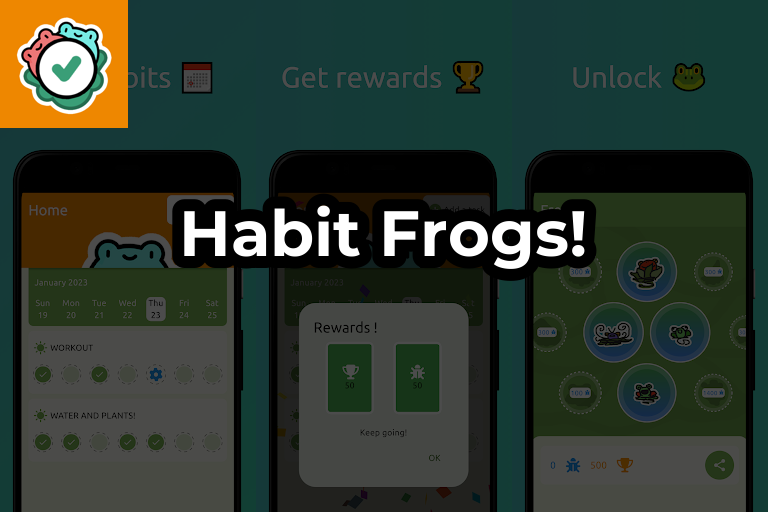
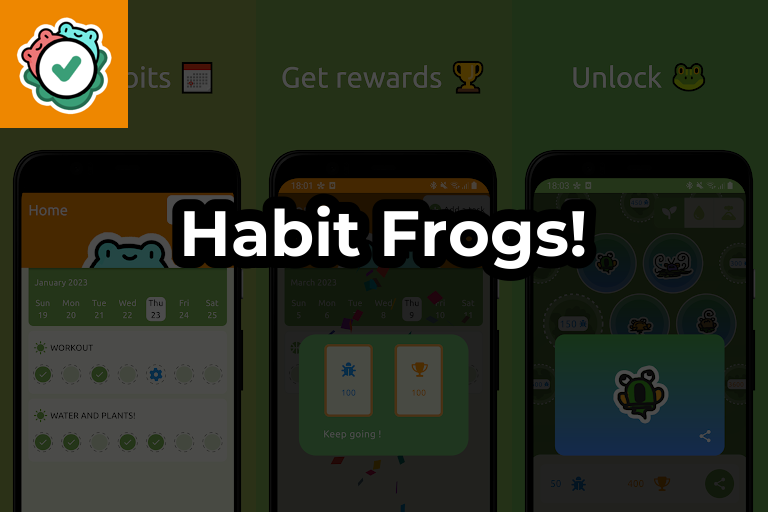
Add featured

diff --git a/themes/freelancer/layouts/partials/featured.html b/themes/freelancer/layouts/partials/featured.html
@@ -1,0 +1,25 @@
+{{ $element := first 1 (where .Site.RegularPages "Params.featured" true) }}
+{{ if $element }}
+<!-- 165b69 -->
+<div style="background-color: #165b69;">
+        <section>
+                {{ range $element }}
+                <div class="portfolio-item pt-2 pb-4" style="margin:auto; text-align: center;">
+                        <div class="h2 text-white">{{.Page.Params.title}}</div>
+                        <a href="{{ .Params.Playstore }}" target="_blank" rel="noopener noreferrer"><img
+                                        class="img-fluid" style="border-radius: 8%" width="200"
+                                        src="/{{.Page.Params.Featuredgif}}" /></a>
+                        <br>
+                        <div class="text-white mt-2 mb-4 lead "> {{.Page.Params.Summary}} </div>
+                        <a href="{{ .Params.Playstore }}" target="_blank" rel="noopener noreferrer"> <img height="50"
+                                        src="/google-play-badge-nopad.png" /></a>
+                        <br>
+                        <br>
+                        <!-- <img class="img-fluid" width="200" src="/habit1.png" />
+                        <img class="img-fluid" width="200" src="/habit4.png" />
+                        <img class="img-fluid" width="200" src="/habit2.png" /> -->
+                </div>
+                {{ end }}
+        </section>
+</div>
+{{ end }}

diff --git a/themes/freelancer/layouts/partials/projects.html b/themes/freelancer/layouts/partials/projects.html
@@ -2,12 +2,11 @@
 
 {{ if $element }}
 <div style="background-color: #e9ecef;">
-	<section class="page-section portfolio col-md-8 mx-auto" id="portfolio" style="background-color: #e9ecef;">
+	<section class="page-section portfolio mx-auto" id="portfolio" style="background-color: #e9ecef;">
 		<div class="container">
 			<div class="divider-custom">
 				<div class="divider-custom-line" style="background-color: #165b69; border-color: #165b69"></div>
-				<div class="divider-custom-icon" style="color: #165b69"><em class="fas fa-heart"></em>
-				</div>
+				<div class="divider-custom-icon" style="color: #165b69">Projects</div>
 				<div class="divider-custom-line" style="background-color: #165b69; border-color: #165b69"></div>
 			</div>
 			<br>
@@ -15,9 +14,9 @@
 				{{ $counter := 0 }}
 				{{ range $element }}
 				{{ $counter = add $counter 1 }}
-				<div class="portfolio-item">
+				<div class="portfolio-item" style="max-width: 25rem">
 					<a href="{{ .Params.Playstore }}" target="_blank" rel="noopener noreferrer"><img class="img-fluid"
-							 src="/{{.Page.Params.Hero}}"/></a>
+							src="/{{.Page.Params.Hero}}" /></a>
 					<!-- <br>
 					<br> -->
 					<!-- <a href="{{ .Params.Playstore }}" target="_blank" rel="noopener noreferrer"> <img height="50"

diff --git a/themes/freelancer/layouts/partials/about.html b/themes/freelancer/layouts/partials/about.html
@@ -1,15 +1,20 @@
-<section class="page-section bg-primary text-white py-5" id="about">
+<section class="page-section bg-primary text-white py-5">
 	<div class="container">
 		<!-- Icon Divider-->
 		<div class="divider-custom divider-light">
 			<div class="divider-custom-line"></div>
-			<div class="divider-custom-icon"><em class="fas fa-fire"></em></div>
+			<!-- <div class="divider-custom-icon"><em class="fas fa-fire"></em></div> -->
+			<div class="divider-custom-icon">About</div>
 			<div class="divider-custom-line"></div>
 		</div>
 		<!-- About Section Content-->
 		<div class="row">
-			<div class="col-lg-4 ms-auto"><p class="lead">{{.Site.Params.AboutLeft}}</p></div>
-			<div class="col-lg-4 me-auto"><p class="lead">{{.Site.Params.AboutRight}}</p></div>
+			<div class="col-lg-4 ms-auto">
+				<p class="lead">{{.Site.Params.AboutLeft}}</p>
+			</div>
+			<div class="col-lg-4 me-auto">
+				<p class="lead">{{.Site.Params.AboutRight}}</p>
+			</div>
 		</div>
 
 		{{ if .Site.Params.homebutton }}

diff --git a/themes/freelancer/layouts/partials/update.html b/themes/freelancer/layouts/partials/update.html
@@ -1,0 +1,15 @@
+<section class="page-section" style="background-color: #165b69;">
+    <div class="container">
+        <div class="divider-custom">
+            <div class="divider-custom-line" style="background-color: white; border-color: white"></div>
+            <div class="divider-custom-icon" style="color: white">Updates</div>
+            <div class="divider-custom-line" style="background-color: white; border-color: white"></div>
+        </div>
+        <br>
+        <div class="col-lg-5 col-md-5 col-sm-12 col-xs-12 mx-auto">
+            <a class="twitter-timeline" data-height="700" href="https://twitter.com/crucknuk?ref_src=twsrc%5Etfw">Tweets
+                by crucknuk</a>
+            <script async src="https://platform.twitter.com/widgets.js" charset="utf-8"></script>
+        </div>
+    </div>
+</section>

diff --git a/themes/freelancer/static/css/style.css b/themes/freelancer/static/css/style.css
@@ -6364,6 +6364,7 @@ fieldset:disabled .btn {
 }
 
 @media (min-width: 992px) {
+
   .modal-lg,
   .modal-xl {
     max-width: 800px;
@@ -12394,11 +12395,14 @@ html {
 .footer {
   padding-top: 5rem;
   padding-bottom: 5rem;
-  background-color: #2c3e50;
   color: #fff;
 }
 
 .copyright {
+  background-color: var(--bs-dark);
+}
+
+.bgdark {
   background-color: var(--bs-dark);
 }
 

diff --git a/themes/freelancer/layouts/index.html b/themes/freelancer/layouts/index.html
@@ -1,8 +1,10 @@
 {{ define "main" }}
 
+{{ partial "featured.html" . }}
 {{ partial "projects.html" . }}
 {{ partial "posts.html" . }}
+<!-- {{ partial "update.html" . }} -->
 {{ partial "about.html" . }}
-{{ partial "contact.html" . }}
+<!-- {{ partial "contact.html" . }} -->
 
 {{ end }}

diff --git a/content/projects/habitfrogs/index.md b/content/projects/habitfrogs/index.md
@@ -6,7 +6,9 @@ sidebar: false
 tags: []
 hero: "habitfrogs.png"
 summary: "A simple daily prediction app and tarot readings."
-summary: "Tarot readings card and collection. Provide a minimalist horoscope and motivations quotes."
+summary: "Simple habit trackers with frogs has a rewards."
 playstore: https://play.google.com/store/apps/details?id=com.poly.habit
 single: true
+featured: true
+featuredgif: "habitlogo.webp"
 ---

diff --git a/content/projects/greed/index.md b/content/projects/greed/index.md
@@ -1,0 +1,10 @@
+---
+title: "Greed"
+date: 2023-03-08T13:40:46+01:00
+draft: true
+sidebar: false
+tags: []
+hero: "astro.png"
+summary: ""
+featuredgif: "astro.gif"
+---
